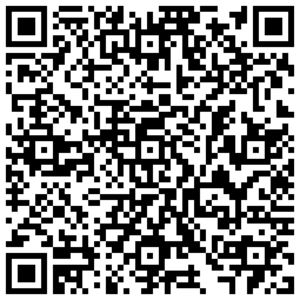
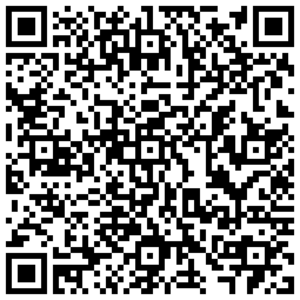
Update free configs - 2025-03-28

diff --git a/README.md b/README.md
@@ -1,6 +1,6 @@
 # 文档下方有很多可直接导入使用的高速节点/二维码订阅
 
-<p align='center'><strong>2025-03-27 12点准时更新每日免费节点，更多机场VPN优惠信息：<a href="https://vpn.tg10000.com">vpn.tg10000.com</a></strong></p>
+<p align='center'><strong>2025-03-28 12点准时更新每日免费节点，更多机场VPN优惠信息：<a href="https://vpn.tg10000.com">vpn.tg10000.com</a></strong></p>
 <p align='center'><strong>Telegram群:<a href="https://t.me/freevpn">@freevpntg</a></strong></p>
 
 
@@ -60,120 +60,120 @@
 
 <p align='center'><img src='img/1.png' alt='QR Code' width='300'></p>
 
-<p align='center'><code>ss://Y2hhY2hhMjAtaWV0Zi1wb2x5MTMwNTpiMWFjY2I5My0wZjU4LTRkZjktOWQ2My1lMjYwNzExNDNjMTE=@free.2apzhfa.xyz:31141#0%7C%F0%9F%87%AD%F0%9F%87%B0%E9%A6%99%E6%B8%AF%2001%20%7C%201x%20HK</code></p>
+<p align='center'><code>ss://Y2hhY2hhMjAtaWV0Zi1wb2x5MTMwNTozMGQ0NWRkNi03NmQ1LTQ0YjQtOTM1ZS1iNjM3YmFlZDU3M2M=@free.2apzhfa.xyz:31141#0%7C%F0%9F%87%AD%F0%9F%87%B0%E9%A6%99%E6%B8%AF%2001%20%7C%201x%20HK</code></p>
 
 <p align='center'><img src='img/2.png' alt='QR Code' width='300'></p>
 
-<p align='center'><code>ss://Y2hhY2hhMjAtaWV0Zi1wb2x5MTMwNTpiMWFjY2I5My0wZjU4LTRkZjktOWQ2My1lMjYwNzExNDNjMTE=@free.2apzhfa.xyz:31143#0%7C%F0%9F%87%AD%F0%9F%87%B0%E9%A6%99%E6%B8%AF%2002%20%7C%201x%20HK</code></p>
+<p align='center'><code>ss://Y2hhY2hhMjAtaWV0Zi1wb2x5MTMwNTozMGQ0NWRkNi03NmQ1LTQ0YjQtOTM1ZS1iNjM3YmFlZDU3M2M=@free.2apzhfa.xyz:31143#0%7C%F0%9F%87%AD%F0%9F%87%B0%E9%A6%99%E6%B8%AF%2002%20%7C%201x%20HK</code></p>
 
 <p align='center'><img src='img/3.png' alt='QR Code' width='300'></p>
 
-<p align='center'><code>ss://Y2hhY2hhMjAtaWV0Zi1wb2x5MTMwNTpiMWFjY2I5My0wZjU4LTRkZjktOWQ2My1lMjYwNzExNDNjMTE=@free.2apzhfa.xyz:31145#0%7C%F0%9F%87%AD%F0%9F%87%B0%E9%A6%99%E6%B8%AF%E5%AE%B6%E5%AE%BD%2003%20%7C%201x%20HK</code></p>
+<p align='center'><code>ss://Y2hhY2hhMjAtaWV0Zi1wb2x5MTMwNTozMGQ0NWRkNi03NmQ1LTQ0YjQtOTM1ZS1iNjM3YmFlZDU3M2M=@free.2apzhfa.xyz:31145#0%7C%F0%9F%87%AD%F0%9F%87%B0%E9%A6%99%E6%B8%AF%E5%AE%B6%E5%AE%BD%2003%20%7C%201x%20HK</code></p>
 
 <p align='center'><img src='img/4.png' alt='QR Code' width='300'></p>
 
-<p align='center'><code>ss://Y2hhY2hhMjAtaWV0Zi1wb2x5MTMwNTpiMWFjY2I5My0wZjU4LTRkZjktOWQ2My1lMjYwNzExNDNjMTE=@free.2apzhfa.xyz:31241#0%7C%F0%9F%87%B9%F0%9F%87%BC%E5%8F%B0%E6%B9%BE%2001%20%7C%201x%20TW</code></p>
+<p align='center'><code>ss://Y2hhY2hhMjAtaWV0Zi1wb2x5MTMwNTozMGQ0NWRkNi03NmQ1LTQ0YjQtOTM1ZS1iNjM3YmFlZDU3M2M=@free.2apzhfa.xyz:31241#0%7C%F0%9F%87%B9%F0%9F%87%BC%E5%8F%B0%E6%B9%BE%2001%20%7C%201x%20TW</code></p>
 
 <p align='center'><img src='img/5.png' alt='QR Code' width='300'></p>
 
-<p align='center'><code>ss://Y2hhY2hhMjAtaWV0Zi1wb2x5MTMwNTpiMWFjY2I5My0wZjU4LTRkZjktOWQ2My1lMjYwNzExNDNjMTE=@free.2apzhfa.xyz:31243#0%7C%F0%9F%87%B9%F0%9F%87%BC%E5%8F%B0%E6%B9%BE%2002%20%7C%201x%20TW</code></p>
+<p align='center'><code>ss://Y2hhY2hhMjAtaWV0Zi1wb2x5MTMwNTozMGQ0NWRkNi03NmQ1LTQ0YjQtOTM1ZS1iNjM3YmFlZDU3M2M=@free.2apzhfa.xyz:31243#0%7C%F0%9F%87%B9%F0%9F%87%BC%E5%8F%B0%E6%B9%BE%2002%20%7C%201x%20TW</code></p>
 
 <p align='center'><img src='img/6.png' alt='QR Code' width='300'></p>
 
-<p align='center'><code>ss://Y2hhY2hhMjAtaWV0Zi1wb2x5MTMwNTpiMWFjY2I5My0wZjU4LTRkZjktOWQ2My1lMjYwNzExNDNjMTE=@free.2apzhfa.xyz:31245#0%7C%F0%9F%87%B9%F0%9F%87%BC%E5%8F%B0%E6%B9%BE%2003%20%7C%201x%20TW</code></p>
+<p align='center'><code>ss://Y2hhY2hhMjAtaWV0Zi1wb2x5MTMwNTozMGQ0NWRkNi03NmQ1LTQ0YjQtOTM1ZS1iNjM3YmFlZDU3M2M=@free.2apzhfa.xyz:31245#0%7C%F0%9F%87%B9%F0%9F%87%BC%E5%8F%B0%E6%B9%BE%2003%20%7C%201x%20TW</code></p>
 
 <p align='center'><img src='img/7.png' alt='QR Code' width='300'></p>
 
-<p align='center'><code>ss://Y2hhY2hhMjAtaWV0Zi1wb2x5MTMwNTpiMWFjY2I5My0wZjU4LTRkZjktOWQ2My1lMjYwNzExNDNjMTE=@free.2apzhfa.xyz:31111#0%7C%F0%9F%87%AF%F0%9F%87%B5%E6%97%A5%E6%9C%AC%2001%20%7C%201x%20JP</code></p>
+<p align='center'><code>ss://Y2hhY2hhMjAtaWV0Zi1wb2x5MTMwNTozMGQ0NWRkNi03NmQ1LTQ0YjQtOTM1ZS1iNjM3YmFlZDU3M2M=@free.2apzhfa.xyz:31111#0%7C%F0%9F%87%AF%F0%9F%87%B5%E6%97%A5%E6%9C%AC%2001%20%7C%201x%20JP</code></p>
 
 <p align='center'><img src='img/8.png' alt='QR Code' width='300'></p>
 
-<p align='center'><code>ss://Y2hhY2hhMjAtaWV0Zi1wb2x5MTMwNTpiMWFjY2I5My0wZjU4LTRkZjktOWQ2My1lMjYwNzExNDNjMTE=@free.2apzhfa.xyz:31113#0%7C%F0%9F%87%AF%F0%9F%87%B5%E6%97%A5%E6%9C%AC%2002%20%7C%201x%20JP</code></p>
+<p align='center'><code>ss://Y2hhY2hhMjAtaWV0Zi1wb2x5MTMwNTozMGQ0NWRkNi03NmQ1LTQ0YjQtOTM1ZS1iNjM3YmFlZDU3M2M=@free.2apzhfa.xyz:31113#0%7C%F0%9F%87%AF%F0%9F%87%B5%E6%97%A5%E6%9C%AC%2002%20%7C%201x%20JP</code></p>
 
 <p align='center'><img src='img/9.png' alt='QR Code' width='300'></p>
 
-<p align='center'><code>ss://Y2hhY2hhMjAtaWV0Zi1wb2x5MTMwNTpiMWFjY2I5My0wZjU4LTRkZjktOWQ2My1lMjYwNzExNDNjMTE=@free.2apzhfa.xyz:31115#0%7C%F0%9F%87%AF%F0%9F%87%B5%E6%97%A5%E6%9C%AC%2003%20%7C%201x%20JP</code></p>
+<p align='center'><code>ss://Y2hhY2hhMjAtaWV0Zi1wb2x5MTMwNTozMGQ0NWRkNi03NmQ1LTQ0YjQtOTM1ZS1iNjM3YmFlZDU3M2M=@free.2apzhfa.xyz:31115#0%7C%F0%9F%87%AF%F0%9F%87%B5%E6%97%A5%E6%9C%AC%2003%20%7C%201x%20JP</code></p>
 
 <p align='center'><img src='img/10.png' alt='QR Code' width='300'></p>
 
-<p align='center'><code>ss://Y2hhY2hhMjAtaWV0Zi1wb2x5MTMwNTpiMWFjY2I5My0wZjU4LTRkZjktOWQ2My1lMjYwNzExNDNjMTE=@free.2apzhfa.xyz:31171#0%7C%F0%9F%87%B8%F0%9F%87%AC%E6%96%B0%E5%8A%A0%E5%9D%A1%2001%20%7C%201x%20SG</code></p>
+<p align='center'><code>ss://Y2hhY2hhMjAtaWV0Zi1wb2x5MTMwNTozMGQ0NWRkNi03NmQ1LTQ0YjQtOTM1ZS1iNjM3YmFlZDU3M2M=@free.2apzhfa.xyz:31171#0%7C%F0%9F%87%B8%F0%9F%87%AC%E6%96%B0%E5%8A%A0%E5%9D%A1%2001%20%7C%201x%20SG</code></p>
 
 <p align='center'><img src='img/11.png' alt='QR Code' width='300'></p>
 
-<p align='center'><code>ss://Y2hhY2hhMjAtaWV0Zi1wb2x5MTMwNTpiMWFjY2I5My0wZjU4LTRkZjktOWQ2My1lMjYwNzExNDNjMTE=@free.2apzhfa.xyz:31173#0%7C%F0%9F%87%B8%F0%9F%87%AC%E6%96%B0%E5%8A%A0%E5%9D%A1%2002%20%7C%201x%20SG</code></p>
+<p align='center'><code>ss://Y2hhY2hhMjAtaWV0Zi1wb2x5MTMwNTozMGQ0NWRkNi03NmQ1LTQ0YjQtOTM1ZS1iNjM3YmFlZDU3M2M=@free.2apzhfa.xyz:31173#0%7C%F0%9F%87%B8%F0%9F%87%AC%E6%96%B0%E5%8A%A0%E5%9D%A1%2002%20%7C%201x%20SG</code></p>
 
 <p align='center'><img src='img/12.png' alt='QR Code' width='300'></p>
 
-<p align='center'><code>ss://Y2hhY2hhMjAtaWV0Zi1wb2x5MTMwNTpiMWFjY2I5My0wZjU4LTRkZjktOWQ2My1lMjYwNzExNDNjMTE=@free.2apzhfa.xyz:31175#0%7C%F0%9F%87%B8%F0%9F%87%AC%E6%96%B0%E5%8A%A0%E5%9D%A1%2003%20%7C%201x%20SG</code></p>
+<p align='center'><code>ss://Y2hhY2hhMjAtaWV0Zi1wb2x5MTMwNTozMGQ0NWRkNi03NmQ1LTQ0YjQtOTM1ZS1iNjM3YmFlZDU3M2M=@free.2apzhfa.xyz:31175#0%7C%F0%9F%87%B8%F0%9F%87%AC%E6%96%B0%E5%8A%A0%E5%9D%A1%2003%20%7C%201x%20SG</code></p>
 
 <p align='center'><img src='img/13.png' alt='QR Code' width='300'></p>
 
-<p align='center'><code>ss://Y2hhY2hhMjAtaWV0Zi1wb2x5MTMwNTpiMWFjY2I5My0wZjU4LTRkZjktOWQ2My1lMjYwNzExNDNjMTE=@free.2apzhfa.xyz:31311#0%7C%F0%9F%87%B0%F0%9F%87%B7%E9%9F%A9%E5%9B%BD%2001%20%7C%201x%20KR</code></p>
+<p align='center'><code>ss://Y2hhY2hhMjAtaWV0Zi1wb2x5MTMwNTozMGQ0NWRkNi03NmQ1LTQ0YjQtOTM1ZS1iNjM3YmFlZDU3M2M=@free.2apzhfa.xyz:31311#0%7C%F0%9F%87%B0%F0%9F%87%B7%E9%9F%A9%E5%9B%BD%2001%20%7C%201x%20KR</code></p>
 
 <p align='center'><img src='img/14.png' alt='QR Code' width='300'></p>
 
-<p align='center'><code>ss://Y2hhY2hhMjAtaWV0Zi1wb2x5MTMwNTpiMWFjY2I5My0wZjU4LTRkZjktOWQ2My1lMjYwNzExNDNjMTE=@free.2apzhfa.xyz:31313#0%7C%F0%9F%87%B0%F0%9F%87%B7%E9%9F%A9%E5%9B%BD%2002%20%7C%201x%20KR</code></p>
+<p align='center'><code>ss://Y2hhY2hhMjAtaWV0Zi1wb2x5MTMwNTozMGQ0NWRkNi03NmQ1LTQ0YjQtOTM1ZS1iNjM3YmFlZDU3M2M=@free.2apzhfa.xyz:31313#0%7C%F0%9F%87%B0%F0%9F%87%B7%E9%9F%A9%E5%9B%BD%2002%20%7C%201x%20KR</code></p>
 
 <p align='center'><img src='img/15.png' alt='QR Code' width='300'></p>
 
-<p align='center'><code>ss://Y2hhY2hhMjAtaWV0Zi1wb2x5MTMwNTpiMWFjY2I5My0wZjU4LTRkZjktOWQ2My1lMjYwNzExNDNjMTE=@free.2apzhfa.xyz:31341#0%7C%F0%9F%87%B5%F0%9F%87%AD%E8%8F%B2%E5%BE%8B%E5%AE%BE%2001%20%7C%201x%20PH</code></p>
+<p align='center'><code>ss://Y2hhY2hhMjAtaWV0Zi1wb2x5MTMwNTozMGQ0NWRkNi03NmQ1LTQ0YjQtOTM1ZS1iNjM3YmFlZDU3M2M=@free.2apzhfa.xyz:31341#0%7C%F0%9F%87%B5%F0%9F%87%AD%E8%8F%B2%E5%BE%8B%E5%AE%BE%2001%20%7C%201x%20PH</code></p>
 
 <p align='center'><img src='img/16.png' alt='QR Code' width='300'></p>
 
-<p align='center'><code>ss://Y2hhY2hhMjAtaWV0Zi1wb2x5MTMwNTpiMWFjY2I5My0wZjU4LTRkZjktOWQ2My1lMjYwNzExNDNjMTE=@free.2apzhfa.xyz:31211#0%7C%F0%9F%87%BA%F0%9F%87%B8%E7%BE%8E%E5%9B%BD%2001%20%7C%201x%20US%20Los%20Angeles</code></p>
+<p align='center'><code>ss://Y2hhY2hhMjAtaWV0Zi1wb2x5MTMwNTozMGQ0NWRkNi03NmQ1LTQ0YjQtOTM1ZS1iNjM3YmFlZDU3M2M=@free.2apzhfa.xyz:31211#0%7C%F0%9F%87%BA%F0%9F%87%B8%E7%BE%8E%E5%9B%BD%2001%20%7C%201x%20US%20Los%20Angeles</code></p>
 
 <p align='center'><img src='img/17.png' alt='QR Code' width='300'></p>
 
-<p align='center'><code>ss://Y2hhY2hhMjAtaWV0Zi1wb2x5MTMwNTpiMWFjY2I5My0wZjU4LTRkZjktOWQ2My1lMjYwNzExNDNjMTE=@free.2apzhfa.xyz:31213#0%7C%F0%9F%87%BA%F0%9F%87%B8%E7%BE%8E%E5%9B%BD%E5%AE%B6%E5%AE%BD%2002%20%7C%201x%20US%20Los%20Angeles</code></p>
+<p align='center'><code>ss://Y2hhY2hhMjAtaWV0Zi1wb2x5MTMwNTozMGQ0NWRkNi03NmQ1LTQ0YjQtOTM1ZS1iNjM3YmFlZDU3M2M=@free.2apzhfa.xyz:31213#0%7C%F0%9F%87%BA%F0%9F%87%B8%E7%BE%8E%E5%9B%BD%E5%AE%B6%E5%AE%BD%2002%20%7C%201x%20US%20Los%20Angeles</code></p>
 
 <p align='center'><img src='img/18.png' alt='QR Code' width='300'></p>
 
-<p align='center'><code>ss://Y2hhY2hhMjAtaWV0Zi1wb2x5MTMwNTpiMWFjY2I5My0wZjU4LTRkZjktOWQ2My1lMjYwNzExNDNjMTE=@free.2apzhfa.xyz:31215#0%7C%F0%9F%87%BA%F0%9F%87%B8%E7%BE%8E%E5%9B%BD%2003%20%7C%201x%20US%20Washington</code></p>
+<p align='center'><code>ss://Y2hhY2hhMjAtaWV0Zi1wb2x5MTMwNTozMGQ0NWRkNi03NmQ1LTQ0YjQtOTM1ZS1iNjM3YmFlZDU3M2M=@free.2apzhfa.xyz:31215#0%7C%F0%9F%87%BA%F0%9F%87%B8%E7%BE%8E%E5%9B%BD%2003%20%7C%201x%20US%20Washington</code></p>
 
 <p align='center'><img src='img/19.png' alt='QR Code' width='300'></p>
 
-<p align='center'><code>ss://Y2hhY2hhMjAtaWV0Zi1wb2x5MTMwNTpiMWFjY2I5My0wZjU4LTRkZjktOWQ2My1lMjYwNzExNDNjMTE=@free.2apzhfa.xyz:31271#0%7C%F0%9F%87%AC%F0%9F%87%A7%E8%8B%B1%E5%9B%BD%E5%AE%B6%E5%AE%BD%2001%20%7C%201x%20UK</code></p>
+<p align='center'><code>ss://Y2hhY2hhMjAtaWV0Zi1wb2x5MTMwNTozMGQ0NWRkNi03NmQ1LTQ0YjQtOTM1ZS1iNjM3YmFlZDU3M2M=@free.2apzhfa.xyz:31271#0%7C%F0%9F%87%AC%F0%9F%87%A7%E8%8B%B1%E5%9B%BD%E5%AE%B6%E5%AE%BD%2001%20%7C%201x%20UK</code></p>
 
 <p align='center'><img src='img/20.png' alt='QR Code' width='300'></p>
 
-<p align='center'><code>ss://Y2hhY2hhMjAtaWV0Zi1wb2x5MTMwNTpiMWFjY2I5My0wZjU4LTRkZjktOWQ2My1lMjYwNzExNDNjMTE=@free.2apzhfa.xyz:31741#0%7C%F0%9F%87%B9%F0%9F%87%AD%E6%B3%B0%E5%9B%BD01%20%20%7C%201x%20TH</code></p>
+<p align='center'><code>ss://Y2hhY2hhMjAtaWV0Zi1wb2x5MTMwNTozMGQ0NWRkNi03NmQ1LTQ0YjQtOTM1ZS1iNjM3YmFlZDU3M2M=@free.2apzhfa.xyz:31741#0%7C%F0%9F%87%B9%F0%9F%87%AD%E6%B3%B0%E5%9B%BD01%20%20%7C%201x%20TH</code></p>
 
 <p align='center'><img src='img/21.png' alt='QR Code' width='300'></p>
 
-<p align='center'><code>ss://Y2hhY2hhMjAtaWV0Zi1wb2x5MTMwNTpiMWFjY2I5My0wZjU4LTRkZjktOWQ2My1lMjYwNzExNDNjMTE=@free.2apzhfa.xyz:31721#0%7C%F0%9F%87%B2%F0%9F%87%BE%E9%A9%AC%E6%9D%A5%E8%A5%BF%E4%BA%9A01%20%7C%201x%20MY</code></p>
+<p align='center'><code>ss://Y2hhY2hhMjAtaWV0Zi1wb2x5MTMwNTozMGQ0NWRkNi03NmQ1LTQ0YjQtOTM1ZS1iNjM3YmFlZDU3M2M=@free.2apzhfa.xyz:31721#0%7C%F0%9F%87%B2%F0%9F%87%BE%E9%A9%AC%E6%9D%A5%E8%A5%BF%E4%BA%9A01%20%7C%201x%20MY</code></p>
 
 <p align='center'><img src='img/22.png' alt='QR Code' width='300'></p>
 
-<p align='center'><code>ss://Y2hhY2hhMjAtaWV0Zi1wb2x5MTMwNTpiMWFjY2I5My0wZjU4LTRkZjktOWQ2My1lMjYwNzExNDNjMTE=@free.2apzhfa.xyz:31371#0%7C%F0%9F%87%AE%F0%9F%87%B3%E5%8D%B0%E5%BA%A6%2001%20%7C%201x%20IN</code></p>
+<p align='center'><code>ss://Y2hhY2hhMjAtaWV0Zi1wb2x5MTMwNTozMGQ0NWRkNi03NmQ1LTQ0YjQtOTM1ZS1iNjM3YmFlZDU3M2M=@free.2apzhfa.xyz:31371#0%7C%F0%9F%87%AE%F0%9F%87%B3%E5%8D%B0%E5%BA%A6%2001%20%7C%201x%20IN</code></p>
 
 <p align='center'><img src='img/23.png' alt='QR Code' width='300'></p>
 
-<p align='center'><code>ss://Y2hhY2hhMjAtaWV0Zi1wb2x5MTMwNTpiMWFjY2I5My0wZjU4LTRkZjktOWQ2My1lMjYwNzExNDNjMTE=@free.2apzhfa.xyz:31411#0%7C%F0%9F%87%A6%F0%9F%87%BA%E6%BE%B3%E5%A4%A7%E5%88%A9%E4%BA%9A%2001%20%7C%201x%20AU</code></p>
+<p align='center'><code>ss://Y2hhY2hhMjAtaWV0Zi1wb2x5MTMwNTozMGQ0NWRkNi03NmQ1LTQ0YjQtOTM1ZS1iNjM3YmFlZDU3M2M=@free.2apzhfa.xyz:31411#0%7C%F0%9F%87%A6%F0%9F%87%BA%E6%BE%B3%E5%A4%A7%E5%88%A9%E4%BA%9A%2001%20%7C%201x%20AU</code></p>
 
 <p align='center'><img src='img/24.png' alt='QR Code' width='300'></p>
 
-<p align='center'><code>ss://Y2hhY2hhMjAtaWV0Zi1wb2x5MTMwNTpiMWFjY2I5My0wZjU4LTRkZjktOWQ2My1lMjYwNzExNDNjMTE=@free.2apzhfa.xyz:31441#0%7C%F0%9F%87%A8%F0%9F%87%A6%E5%8A%A0%E6%8B%BF%E5%A4%A7%2001%20%7C%201x%20CA</code></p>
+<p align='center'><code>ss://Y2hhY2hhMjAtaWV0Zi1wb2x5MTMwNTozMGQ0NWRkNi03NmQ1LTQ0YjQtOTM1ZS1iNjM3YmFlZDU3M2M=@free.2apzhfa.xyz:31441#0%7C%F0%9F%87%A8%F0%9F%87%A6%E5%8A%A0%E6%8B%BF%E5%A4%A7%2001%20%7C%201x%20CA</code></p>
 
 <p align='center'><img src='img/25.png' alt='QR Code' width='300'></p>
 
-<p align='center'><code>ss://Y2hhY2hhMjAtaWV0Zi1wb2x5MTMwNTpiMWFjY2I5My0wZjU4LTRkZjktOWQ2My1lMjYwNzExNDNjMTE=@free.2apzhfa.xyz:31471#0%7C%F0%9F%87%A9%F0%9F%87%AA%E5%BE%B7%E5%9B%BD%2001%20%7C%201x%20DE</code></p>
+<p align='center'><code>ss://Y2hhY2hhMjAtaWV0Zi1wb2x5MTMwNTozMGQ0NWRkNi03NmQ1LTQ0YjQtOTM1ZS1iNjM3YmFlZDU3M2M=@free.2apzhfa.xyz:31471#0%7C%F0%9F%87%A9%F0%9F%87%AA%E5%BE%B7%E5%9B%BD%2001%20%7C%201x%20DE</code></p>
 
 <p align='center'><img src='img/26.png' alt='QR Code' width='300'></p>
 
-<p align='center'><code>ss://Y2hhY2hhMjAtaWV0Zi1wb2x5MTMwNTpiMWFjY2I5My0wZjU4LTRkZjktOWQ2My1lMjYwNzExNDNjMTE=@free.2apzhfa.xyz:31511#0%7C%F0%9F%87%B7%F0%9F%87%BA%E4%BF%84%E7%BD%97%E6%96%AF%2001%20%7C%201x%20RU</code></p>
+<p align='center'><code>ss://Y2hhY2hhMjAtaWV0Zi1wb2x5MTMwNTozMGQ0NWRkNi03NmQ1LTQ0YjQtOTM1ZS1iNjM3YmFlZDU3M2M=@free.2apzhfa.xyz:31511#0%7C%F0%9F%87%B7%F0%9F%87%BA%E4%BF%84%E7%BD%97%E6%96%AF%2001%20%7C%201x%20RU</code></p>
 
 <p align='center'><img src='img/27.png' alt='QR Code' width='300'></p>
 
-<p align='center'><code>ss://Y2hhY2hhMjAtaWV0Zi1wb2x5MTMwNTpiMWFjY2I5My0wZjU4LTRkZjktOWQ2My1lMjYwNzExNDNjMTE=@free.2apzhfa.xyz:31571#0%7C%F0%9F%87%B9%F0%9F%87%B7%E5%9C%9F%E8%80%B3%E5%85%B6%2001%20%7C%201x%20TR</code></p>
+<p align='center'><code>ss://Y2hhY2hhMjAtaWV0Zi1wb2x5MTMwNTozMGQ0NWRkNi03NmQ1LTQ0YjQtOTM1ZS1iNjM3YmFlZDU3M2M=@free.2apzhfa.xyz:31571#0%7C%F0%9F%87%B9%F0%9F%87%B7%E5%9C%9F%E8%80%B3%E5%85%B6%2001%20%7C%201x%20TR</code></p>
 
 <p align='center'><img src='img/28.png' alt='QR Code' width='300'></p>
 
-<p align='center'><code>ss://Y2hhY2hhMjAtaWV0Zi1wb2x5MTMwNTpiMWFjY2I5My0wZjU4LTRkZjktOWQ2My1lMjYwNzExNDNjMTE=@free.2apzhfa.xyz:31611#0%7C%F0%9F%87%BA%F0%9F%87%A6%E4%B9%8C%E5%85%8B%E5%85%B0%2001%20%7C%201x%20UA</code></p>
+<p align='center'><code>ss://Y2hhY2hhMjAtaWV0Zi1wb2x5MTMwNTozMGQ0NWRkNi03NmQ1LTQ0YjQtOTM1ZS1iNjM3YmFlZDU3M2M=@free.2apzhfa.xyz:31611#0%7C%F0%9F%87%BA%F0%9F%87%A6%E4%B9%8C%E5%85%8B%E5%85%B0%2001%20%7C%201x%20UA</code></p>
 
 <p align='center'><img src='img/29.png' alt='QR Code' width='300'></p>
 
-<p align='center'><code>ss://Y2hhY2hhMjAtaWV0Zi1wb2x5MTMwNTpiMWFjY2I5My0wZjU4LTRkZjktOWQ2My1lMjYwNzExNDNjMTE=@free.2apzhfa.xyz:31641#0%7C%F0%9F%87%BB%F0%9F%87%B3%E8%B6%8A%E5%8D%97%2001%20%7C%201x%20VN</code></p>
+<p align='center'><code>ss://Y2hhY2hhMjAtaWV0Zi1wb2x5MTMwNTozMGQ0NWRkNi03NmQ1LTQ0YjQtOTM1ZS1iNjM3YmFlZDU3M2M=@free.2apzhfa.xyz:31641#0%7C%F0%9F%87%BB%F0%9F%87%B3%E8%B6%8A%E5%8D%97%2001%20%7C%201x%20VN</code></p>
 
 <p align='center'><img src='img/30.png' alt='QR Code' width='300'></p>
 
-<p align='center'><code>ss://Y2hhY2hhMjAtaWV0Zi1wb2x5MTMwNTpiMWFjY2I5My0wZjU4LTRkZjktOWQ2My1lMjYwNzExNDNjMTE=@free.2apzhfa.xyz:31671#0%7C%F0%9F%87%A7%F0%9F%87%B7%E5%B7%B4%E8%A5%BF%2001%20%7C%201x%20BR</code></p>
+<p align='center'><code>ss://Y2hhY2hhMjAtaWV0Zi1wb2x5MTMwNTozMGQ0NWRkNi03NmQ1LTQ0YjQtOTM1ZS1iNjM3YmFlZDU3M2M=@free.2apzhfa.xyz:31671#0%7C%F0%9F%87%A7%F0%9F%87%B7%E5%B7%B4%E8%A5%BF%2001%20%7C%201x%20BR</code></p>
